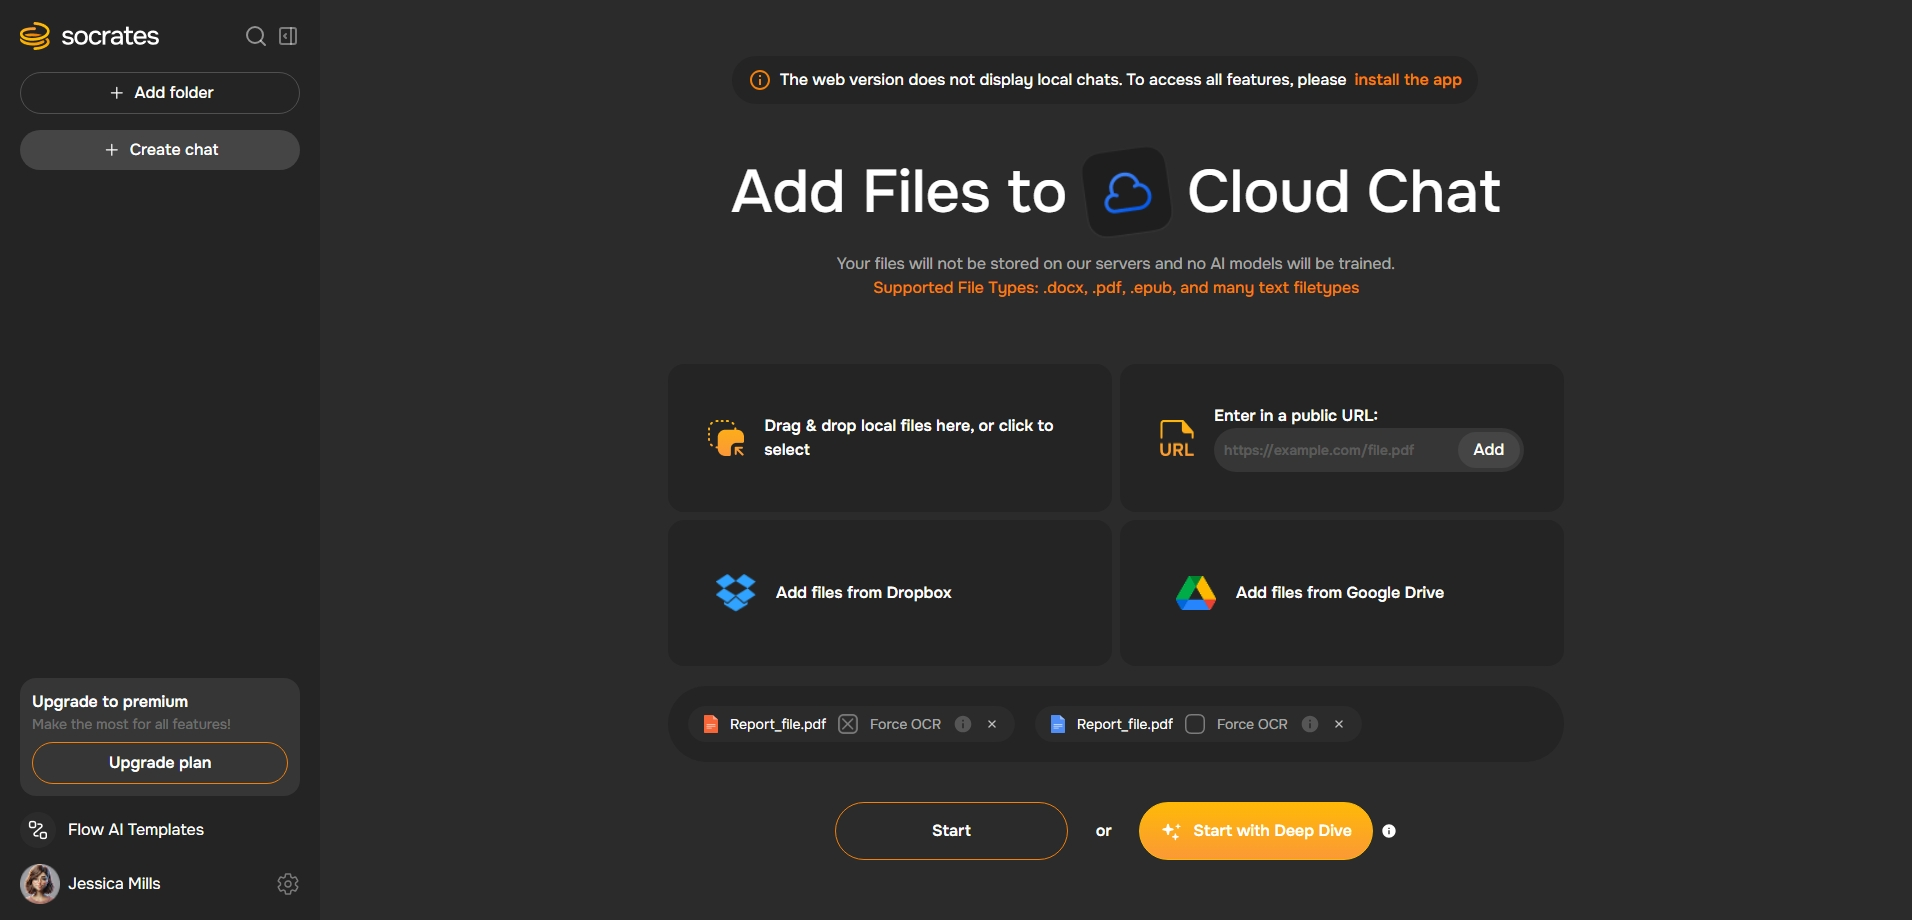
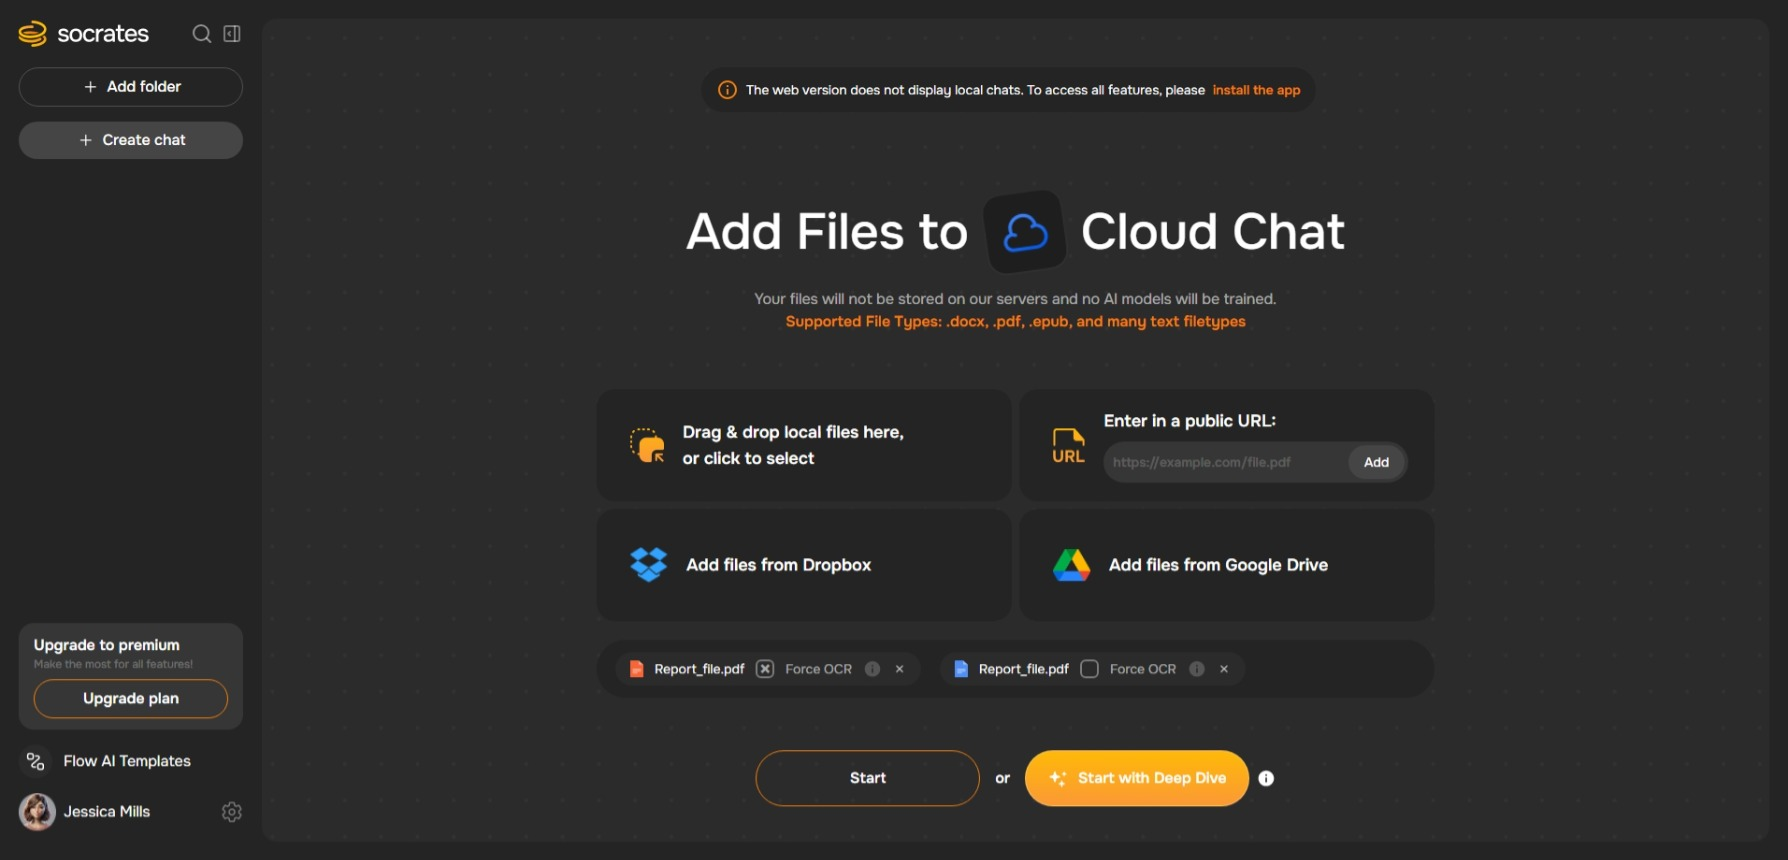
feat: add CustomCheckbox component and integrate it into FileTag; update styling in various components
- fix sidebar padding
- fix  button size
- fix checkbox

diff --git a/src/components/MainContent/FileUploadSection.jsx b/src/components/MainContent/FileUploadSection.jsx
@@ -4,36 +4,36 @@ import CustomButton from "../Button/CustomButton";
 const FileUploadSection = () => {
   return (
     <>
-      <div className="flex flex-col items-center justify-center mt-10">
-        <h1 className="text-6xl font-medium flex items-center justify-center gap-x-3">
+      <div className="flex flex-col items-center justify-center mt-20">
+        <h1 className="text-[54px] font-medium flex lg:flex-row flex-col items-center justify-center gap-x-3">
           Add Files to
           <img src="/images/cloud-icon.png" alt="cloud icon" className="w-24" />
           Cloud Chat
         </h1>
-        <p className="text-white/60 mt-3">
+        <p className="text-white/60 text-base mt-3">
           Your files will not be stored on our servers and no AI models will be
           trained.
         </p>
-        <p className="text-accent-orange font-medium">
+        <p className="text-accent-orange text-base font-semibold ">
           Supported File Types: .docx, .pdf, .epub, and many text filetypes
         </p>
       </div>
-      <div className="grid grid-cols-2 gap-2 mt-16 font-semibold">
+      <div className="grid lg:grid-cols-2 grid-cols-1 gap-2 mt-[60px] font-semibold">
         <IconTextPair
           iconSrc="/images/icon2.png"
           text="Drag & drop local files here, or click to select"
-          className="bg-main-bg p-8 px-10 rounded-2xl text-lg"
+          className="bg-main-bg  w-full h-[120px] p-9 lg:pr-24 rounded-[20px] text-lg"
         />
-        <div className="bg-main-bg p-8 px-10 rounded-2xl flex items-center gap-x-5 w-full">
+        <div className="bg-main-bg w-full h-[120px] p-9 pr-7 rounded-[20px] flex items-center gap-x-5 ">
           <img src="/images/url.png" className="w-10" alt="" />
           <div className="relative w-full">
-            <p className="text-lg">Enter in a public URL:</p>
+            <p className="text-lg font-semibold mb-2">Enter in a public URL:</p>
             <input
               type="text"
               className="p-[10px] rounded-full bg-secondary-bg w-full placeholder-white/20 placeholder:text-sm"
               placeholder="https://example.com/file.pdf"
             />
-            <CustomButton className="bg-button-bg absolute right-1 bottom-1 top-7 px-4">
+            <CustomButton className="bg-button-bg absolute right-1 bottom-1 top-10  w-[60px]  h-9 text-sm">
               Add
             </CustomButton>
           </div>
@@ -41,12 +41,12 @@ const FileUploadSection = () => {
         <IconTextPair
           iconSrc="/images/dropbox.png"
           text="Add files from Dropbox"
-          className="bg-main-bg p-10 px-12 rounded-2xl text-lg"
+          className="bg-main-bg  w-full h-[120px] p-9 rounded-[20px] text-lg"
         />
         <IconTextPair
           iconSrc="/images/google-drive.png"
           text="Add files from Google Drive"
-          className="bg-main-bg p-10 px-10 rounded-2xl text-lg"
+          className="bg-main-bg  w-full h-[120px] p-9 rounded-[20px] text-lg"
         />
       </div>
     </>

diff --git a/src/components/MainContent/MainContent.jsx b/src/components/MainContent/MainContent.jsx
@@ -5,18 +5,20 @@ import ActionButtons from "./ActionButtons";
 
 const MainContent = () => {
   return (
-    <section className="flex-1 h-screen mx-auto bg-section-bg  text-white relative">
-      <img
-        src="/images/pattern.png"
-        alt="pattern"
-        className="w-full h-full absolute inset-0 object-cover opacity-5 z-0 " // Full opacity for testing
-      />
-      <div className="relative z-10 p-6  h-screen flex flex-col justify-between">
-        <div className="mx-auto w-full max-w-4xl ">
-          <InfoBanner />
-          <FileUploadSection />
-          <FileList />
-          <ActionButtons />
+    <section className="flex-1 mx-auto bg-main-bg  text-white relative pr-5 my-5">
+      <div className="relative z-10 flex flex-col justify-between pb-[2px] bg-section-bg p-5 rounded-2xl">
+        <img
+          src="/images/pattern.png"
+          alt="pattern"
+          className="w-full h-full absolute inset-0 object-cover opacity-5 z-0 "
+        />
+        <div className="relative  pb-9">
+          <div className="mx-auto max-w-4xl z-50 relative">
+            <InfoBanner />
+            <FileUploadSection />
+            <FileList />
+            <ActionButtons />
+          </div>
         </div>
       </div>
     </section>

diff --git a/src/components/FileTag/FileTag.jsx b/src/components/FileTag/FileTag.jsx
@@ -1,16 +1,17 @@
-import React from "react";
 import { IoClose } from "react-icons/io5";
 import { MdInfo } from "react-icons/md";
+import CustomCheckbox from "../CustomCheckbox/CustomCheckbox";
 
-const FileTag = ({ filename, iconSrc, checkboxSrc, showOCR = true }) => {
+const FileTag = ({ filename, iconSrc, checked, showOCR = true }) => {
   return (
-    <span className="flex items-center gap-x-3 p-2 px-4 text-sm bg-[#2B2B2B] rounded-full relative">
+    <span className="flex items-center gap-x-3 p-2 px-4  text-sm bg-[#2B2B2B] rounded-full relative">
       <img src={iconSrc} alt="" />
       <p>{filename}</p>
-      <img src={checkboxSrc} className="w-5" alt="" />
+
+      <CustomCheckbox checked={checked} />
       {showOCR && <p className="text-white/60">Force OCR</p>}
-      <MdInfo className="text-white/20 text-xl" />
-      <IoClose className="text-white/70" />
+      <MdInfo className="text-white/20 text-xl cursor-pointer" />
+      <IoClose className="text-white/70 cursor-pointer" />
     </span>
   );
 };

diff --git a/src/components/MainContent/ActionButtons.jsx b/src/components/MainContent/ActionButtons.jsx
@@ -4,12 +4,12 @@ import CustomButton from "../Button/CustomButton";
 
 const ActionButtons = () => {
   return (
-    <div className="flex items-center justify-center gap-x-2 mt-10">
-      <CustomButton className="border border-accent-orange  p-4 px-24 font-semibold">
+    <div className="flex items-center justify-center gap-x-2 mt-14">
+      <CustomButton className="border border-accent-orange  w-60 h-[60px] text-base  font-semibold">
         Start
       </CustomButton>
-      <span className="text-white px-2 font-semibold">or</span>
-      <CustomButton className="border border-gradient-end border-white/30 p-4 px-5 font-semibold bg-gradient-to-t from-gradient-start to-gradient-end">
+      <span className="text-white text-base px-2 font-semibold">or</span>
+      <CustomButton className="border  border-white/30 w-60 h-[60px] font-semibold bg-gradient-to-t from-gradient-start to-gradient-end text-base">
         <img src="/images/deep-dive.png" alt="" /> Start with Deep Dive
       </CustomButton>
       <MdInfo

diff --git a/src/components/CustomCheckbox/CustomCheckbox.jsx b/src/components/CustomCheckbox/CustomCheckbox.jsx
@@ -1,0 +1,30 @@
+import { useState } from "react";
+
+const CustomCheckbox = ({ checked }) => {
+  const [isChecked, setIsChecked] = useState(checked);
+
+  return (
+    <label className="flex items-center cursor-pointer">
+      <input
+        type="checkbox"
+        className="hidden"
+        checked={isChecked}
+        onChange={() => setIsChecked(!isChecked)}
+      />
+      <span
+        className={`w-5 h-5 bg-section-bg border-2 border-border-color rounded-md flex items-center justify-center
+            ${isChecked ? "bg-blue-500 border-blue-500" : ""} 
+            transition-all duration-200 relative`}
+      >
+        <span
+          className={`absolute text-white/60 mt-[2px] text-xl font-bold 
+              ${isChecked ? "block" : "hidden"}`}
+        >
+          ×
+        </span>
+      </span>
+    </label>
+  );
+};
+
+export default CustomCheckbox;

diff --git a/src/components/MainContent/FileList.jsx b/src/components/MainContent/FileList.jsx
@@ -2,18 +2,14 @@ import FileTag from "../FileTag/FileTag";
 
 const FileList = () => {
   return (
-    <div className="w-full bg-main-bg mt-5 p-5 rounded-full flex items-center gap-x-5">
+    <div className=" bg-main-bg mt-5 w-full h-[62px] px-5 rounded-full flex items-center gap-x-5">
       <div className="flex items-center gap-x-5">
         <FileTag
           filename="Report_file.pdf"
           iconSrc="/images/files.png"
-          checkboxSrc="/images/checkbox-2.png"
+          checked={true}
         />
-        <FileTag
-          filename="Report_file.pdf"
-          iconSrc="/images/files1.png"
-          checkboxSrc="/images/checkbox.png"
-        />
+        <FileTag filename="Report_file.pdf" iconSrc="/images/files1.png" />
       </div>
     </div>
   );

diff --git a/src/components/Sidebar/SidebarNav.jsx b/src/components/Sidebar/SidebarNav.jsx
@@ -3,10 +3,10 @@ import CustomButton from "../Button/CustomButton";
 
 const SidebarNav = () => {
   return (
-    <nav className="space-y-4">
-      <div className="flex flex-col bg-secondary-bg p-3 rounded-2xl">
-        <h4 className="font-semibold">Upgrade to premium</h4>
-        <p className="text-sm text-white/30">Make the most for all features!</p>
+    <nav className="space-y-4 pb-4">
+      <div className="flex flex-col bg-secondary-bg p-3 px-4 rounded-2xl">
+        <h4 className="font-semibold text-base">Upgrade to premium</h4>
+        <p className="text-xs text-white/30">Make the most for all features!</p>
         <CustomButton className="border border-accent-orange w-full mt-2 font-semibold">
           Upgrade plan
         </CustomButton>

diff --git a/src/components/MainContent/InfoBanner.jsx b/src/components/MainContent/InfoBanner.jsx
@@ -2,7 +2,7 @@ import { MdInfoOutline } from "react-icons/md";
 
 const InfoBanner = () => {
   return (
-    <p className="flex items-center justify-center gap-x-2 bg-main-bg rounded-full p-3 px-4 f mt-8 text-sm text-center w-fit ml-16">
+    <p className="flex lg:flex-row flex-col items-center justify-center lg:gap-x-2 bg-main-bg rounded-full p-3 lg:px-4  mt-8 text-sm text-center lg:w-fit lg:ml-28">
       <MdInfoOutline className="text-accent-orange text-2xl" />
       The web version does not display local chats. To access all features,
       please{""}

diff --git a/tailwind.config.js b/tailwind.config.js
@@ -9,6 +9,7 @@ export default {
         "secondary-bg": "#363636", // Upgrade section and input background
         "button-bg": "#454545", // Default button background
         "accent-orange": "#F37F0C", // Primary orange accent
+        "border-color": "#7C7C7C", // Border for checkbox
         "gradient-start": "#FB9936", // Deep Dive button gradient start
         "gradient-end": "#FEB907", // Deep Dive button gradient end
       },

diff --git a/src/components/Sidebar/Sidebar.jsx b/src/components/Sidebar/Sidebar.jsx
@@ -3,7 +3,7 @@ import SidebarNav from "./SidebarNav";
 
 const Sidebar = () => {
   return (
-    <aside className="w-80 text-white p-4 lg:flex flex-col justify-between px-5 hidden">
+    <aside className="w-[280px] text-white p-4 lg:flex flex-col justify-between px-5 hidden">
       <SidebarHeader />
       <SidebarNav />
     </aside>
